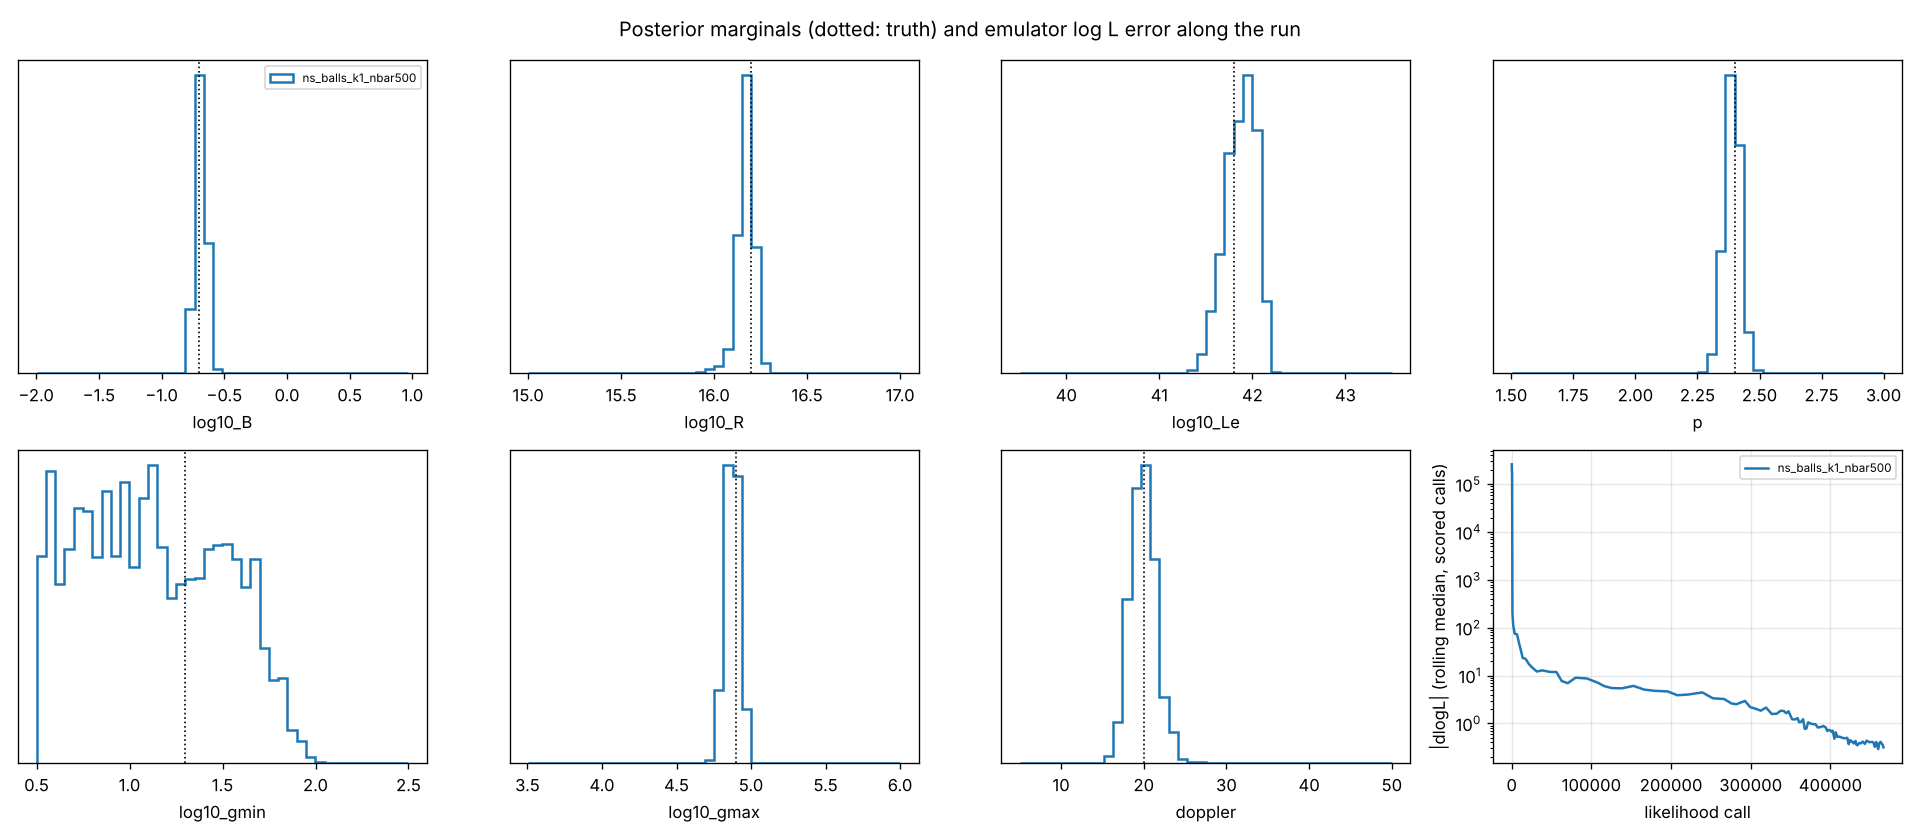
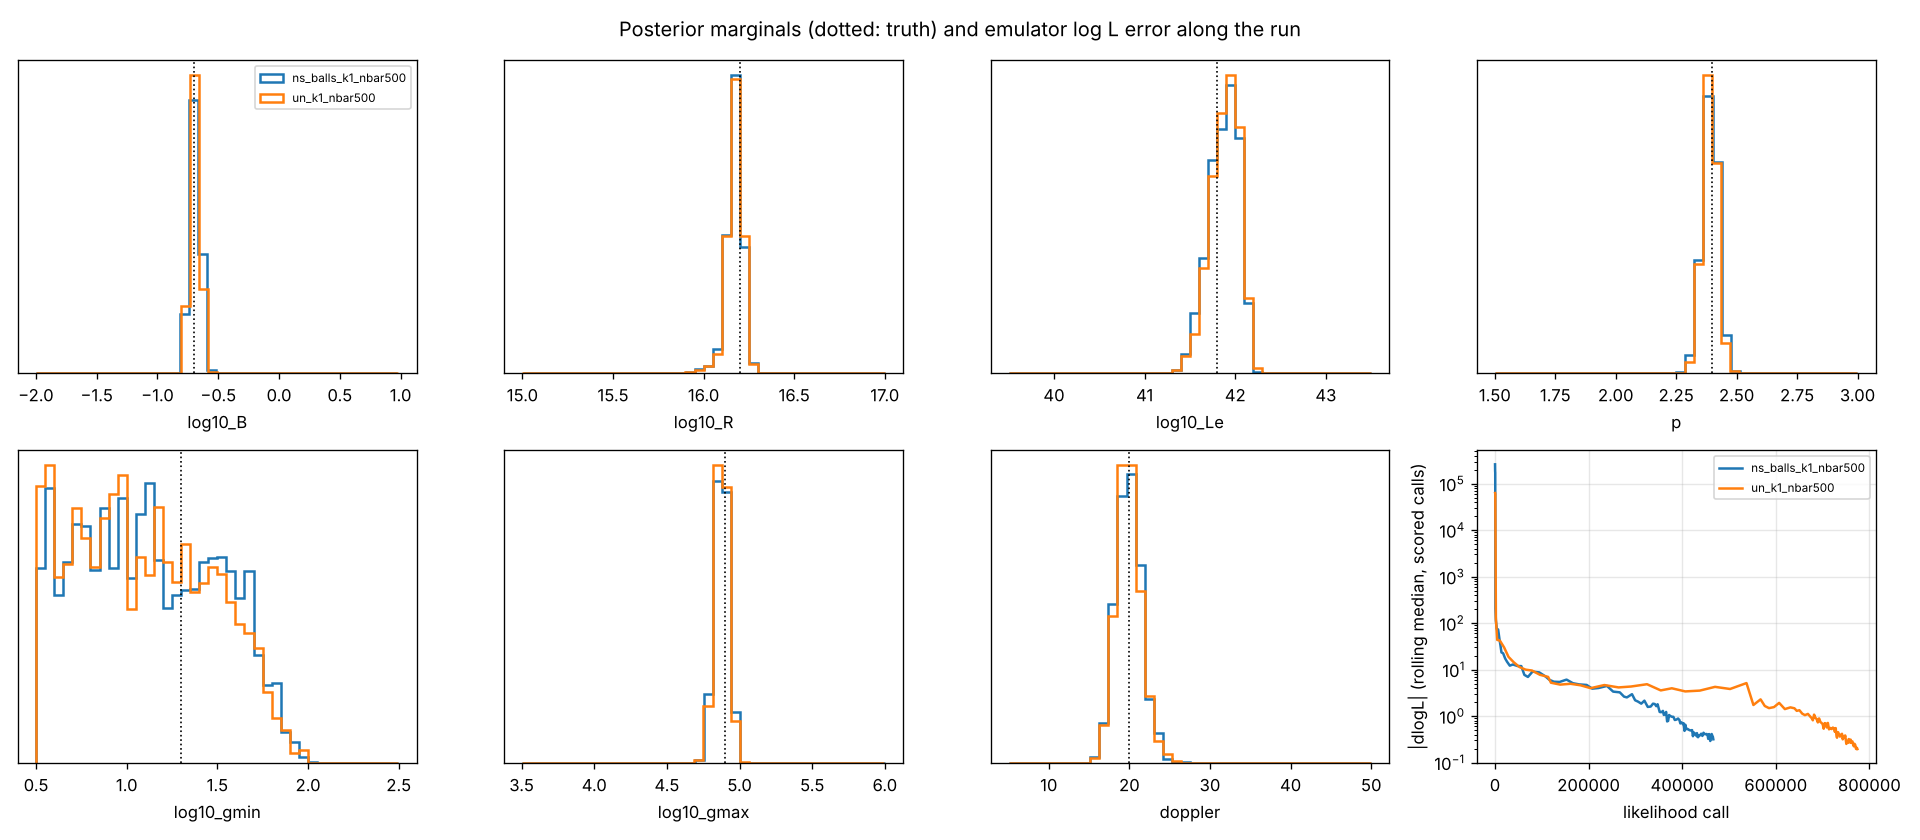
AM3 emulator results: UltraNest against dynesty with the same threshold gate
Claude-Session: https://claude.ai/code/session_01KUBG4Lnp6YR5HKqs8C53My

diff --git a/examples/am3_emulator/analyse_ns.py b/examples/am3_emulator/analyse_ns.py
@@ -16,7 +16,9 @@ NAMES = ['log10_B', 'log10_R', 'log10_Le', 'p', 'log10_gmin', 'log10_gmax', 'dop
 
 
 def load(path):
-    d = np.load(path, allow_pickle=True)
+    d = dict(np.load(path, allow_pickle=True))
+    if 'logwt' not in d:                      # UltraNest results carry weights, not log-weights
+        d['logwt'] = np.log(np.maximum(d['weights'], 1e-300)); d['logz'] = np.array([float(d['logz'])]); d['logzerr'] = np.array([float(d['logzerr'])])
     w = np.exp(d['logwt'] - d['logwt'].max()); w /= w.sum()
     return d, w
 
@@ -25,6 +27,8 @@ def summarise(path, ref=None):
     d, w = load(path)
     label = os.path.basename(path).replace('.npz', '')
     n_calls, n_am3 = int(d['ncall']), int(d['n_am3'])
+    if 'rec_it' not in d:
+        d['rec_it'] = np.zeros(n_calls)
     print(f"\n=== {label}: gate {d['gate']}, nlive {int(d['nlive'])}, {int(d['niter'])} iterations, {n_calls} likelihood calls, "
           f"AM3 calls {n_am3} ({n_am3 / n_calls:.1%}); wall {float(d['t_wall']):.0f}s = AM3 {float(d['t_am3']):.0f}s + "
           f"tree predict {float(d['t_pred']):.0f}s + update {float(d['t_update']):.0f}s (+ sampler)")

diff --git a/examples/am3_emulator/RESULTS_am3_emulator.md b/examples/am3_emulator/RESULTS_am3_emulator.md
@@ -507,6 +507,49 @@ dlogz 0.5. `plots/ns_posteriors.png` shows the marginals.
   predictions, and a first run is in progress.
 
 
+
+### 3.10 The same problem with UltraNest (MLFriends region, uniform draws)
+
+`ns_ultranest.py` runs UltraNest's `ReactiveNestedSampler` with the same gate
+(k = 1, 0.5 % verification), leaf size and components, predicting each batch of
+draws with the tree at once; a subclass hands the current threshold to the
+likelihood before every batch. 250 live points, no improvement loops; the run
+was stopped under UltraNest's default 1 % remaining-evidence rule after it had
+spent 10000 AM3 calls on the last nat of likelihood, and finished under a 30 %
+rule, comparable to dynesty's dlogz = 0.5. `plots/ns_posteriors.png` overlays
+the two posteriors.
+
+| | dynesty, ball bound | UltraNest, MLFriends |
+|---|---|---|
+| iterations / likelihood calls | 5971 / 466858 | 6195 / 774162 |
+| AM3 calls | 20654 | 35158 (6997 acceptances + 24394 inside the margin + 3767 verification) |
+| AM3 calls when the threshold passed chi^2 = 300 / 100 / 40 / 32 | 4185 / 7464 / 13528 / 18156 | 4699 / 8370 / 16224 / 22802 |
+| false rejections among verified | 0 of 2263 | 0 of 3767 |
+| log Z | -37.02 +- 0.49 | -37.44 +- 0.42 |
+| compute | 3.1 h | 5.4 h (AM3 2.3 h, predictions 1.7 h, updates 1.3 h) |
+| posterior means | | agree with dynesty's to within 0.1 posterior sigma on all seven parameters |
+
+* **Same answer, same safety.** The two samplers agree on the evidence within
+  their errors and on every marginal to better than a tenth of a posterior
+  standard deviation, both posteriors are built from AM3 likelihoods only, and
+  neither verified set contains a false rejection (6030 verified emulated
+  rejections in all, with |dlogL| / sigma at the 99th percentile of 1.3-1.4).
+* **MLFriends did not beat the ball bound here.** At every threshold UltraNest
+  had spent 10-25 % more AM3 calls than dynesty with `bound='balls'`, and its
+  proposals clustered just as closely around the threshold in the core. Its
+  advantage would have shown against dynesty's default ellipsoid bound, which
+  stalled below 0.5 % efficiency on this posterior; against the ball bound the
+  two are equivalent in sampler efficiency and UltraNest's cost difference is
+  its stopping rule. Batch predictions did not reduce the per-point cost of the
+  tree (about 8 ms either way with 500-point leaves).
+* **The core is where the AM3 calls go, for both.** Three quarters of all AM3
+  calls in either run are rejections inside the 1-sigma margin, almost all of
+  them in the last two nats of likelihood, where the emulator's 0.5-unit log L
+  error cannot separate proposals from the threshold. A more accurate emulator
+  in the core, or a looser stopping rule, are the two remaining levers; the
+  global phase costs 1.0-1.3 AM3 calls per iteration with either sampler.
+
+
 ## 4. Conclusions
 
 * **Yes, with a qualification.** A `GPTree(output_model='pca')` learning the
@@ -541,7 +584,10 @@ dlogz 0.5. `plots/ns_posteriors.png` shows the marginals.
   hours for the same run on AM3 alone, with the evidence and all seven
   parameters recovered. The sampler's proposal decides the saving: uniform
   draws in a region (dynesty's ball bound, UltraNest's MLFriends) produce the
-  cheap rejections the gate lives on, random walks and slice samplers do not.
+  cheap rejections the gate lives on, random walks and slice samplers do not;
+  dynesty's default ellipsoid bound stalled on this curved posterior. UltraNest
+  reproduced the dynesty posterior and evidence with the same gate at a
+  somewhat higher AM3 cost per threshold and a stricter default stopping rule.
 * **Transfer across sources** saves only the global phase (5 % of the AM3 calls
   of the second scan here) because an optimiser's expensive calls are local. An
   emulator meant to serve many sources would have to be trained on a
